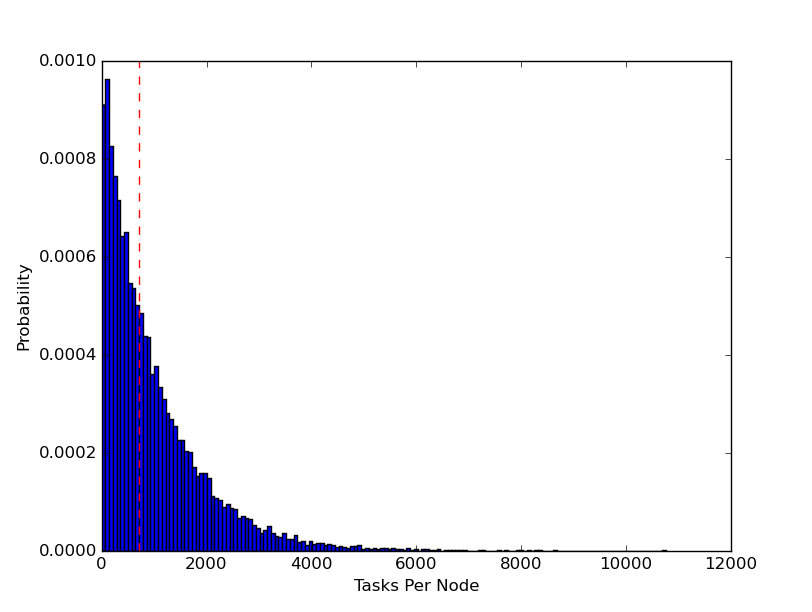
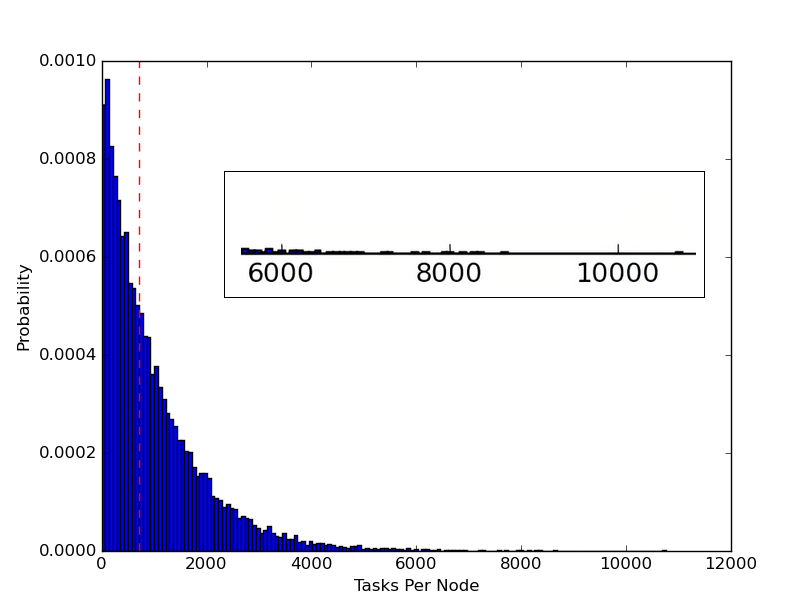
Done with my updates

Changed region(s): [[0.2771, 0.4036, 0.8621, 0.4657]]

diff --git a/sybil_autonomous.tex b/sybil_autonomous.tex
@@ -269,7 +269,7 @@ This means that 50\% of the network has less significantly less tasks than the a
 \begin{figure}[h!]
 	\centering
 	\includegraphics[width=0.9\linewidth]{figs/workloadDistribution}
-	\caption[Workload Distribution in a DHT]{The probability distribution of workload in a DHT with 1000 nodes and 1,000,000 tasks or files.  The vertical dashed line designates the median.  Keys were generated by feeding random numbers into the SHA1 hash function \cite{sha1}, a favorite for many distributed hash tables.}
+	\caption[Workload Distribution in a DHT]{The probability distribution of workload in a DHT with 1000 nodes and 1,000,000 tasks or files.  The vertical dashed line designates the median. The inset rectangle is an enlarged view of extreme values of the x axis.  Keys were generated by feeding random numbers into the SHA1 hash function \cite{sha1}, a favorite for many distributed hash tables.}
 	\label{fig:workloadDistribution}
 \end{figure}
 
